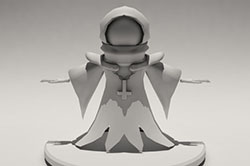
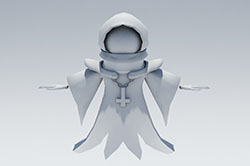
update grim models

diff --git a/charmodels.html b/charmodels.html
@@ -98,6 +98,15 @@
                     <a href="https://s3.amazonaws.com/mikengo/Pictures/tina-portfolio/grim/grim_clay_orig.jpg" title="Grim clay" data-description="Clay model of the Grim." data-gallery="#blueimp-gallery-grim-links">
                         <img src="https://s3.amazonaws.com/mikengo/Pictures/tina-portfolio/grim/grim_clay_thumbnail.jpg">
                     </a>
+                    <a href="https://s3.amazonaws.com/mikengo/Pictures/tina-portfolio/grim/grim_texture_front_orig.jpg" title="Grim textured (front)" data-description="Textured model of the Grim (front)." data-gallery="#blueimp-gallery-grim-links">
+                        <img src="https://s3.amazonaws.com/mikengo/Pictures/tina-portfolio/grim/grim_texture_front_thumbnail.jpg">
+                    </a>
+                    <a href="https://s3.amazonaws.com/mikengo/Pictures/tina-portfolio/grim/grim_texture_side_orig.jpg" title="Grim textured (side)" data-description="Textured model of the Grim (side)." data-gallery="#blueimp-gallery-grim-links">
+                        <img src="https://s3.amazonaws.com/mikengo/Pictures/tina-portfolio/grim/grim_texture_side_thumbnail.jpg">
+                    </a>
+                    <a href="https://s3.amazonaws.com/mikengo/Pictures/tina-portfolio/grim/grim_texture_back_orig.jpg" title="Grim textured (back)" data-description="Textured model of the Grim (back)." data-gallery="#blueimp-gallery-grim-links">
+                        <img src="https://s3.amazonaws.com/mikengo/Pictures/tina-portfolio/grim/grim_texture_back_thumbnail.jpg">
+                    </a>
                 </div>
             </div>
         </div>
